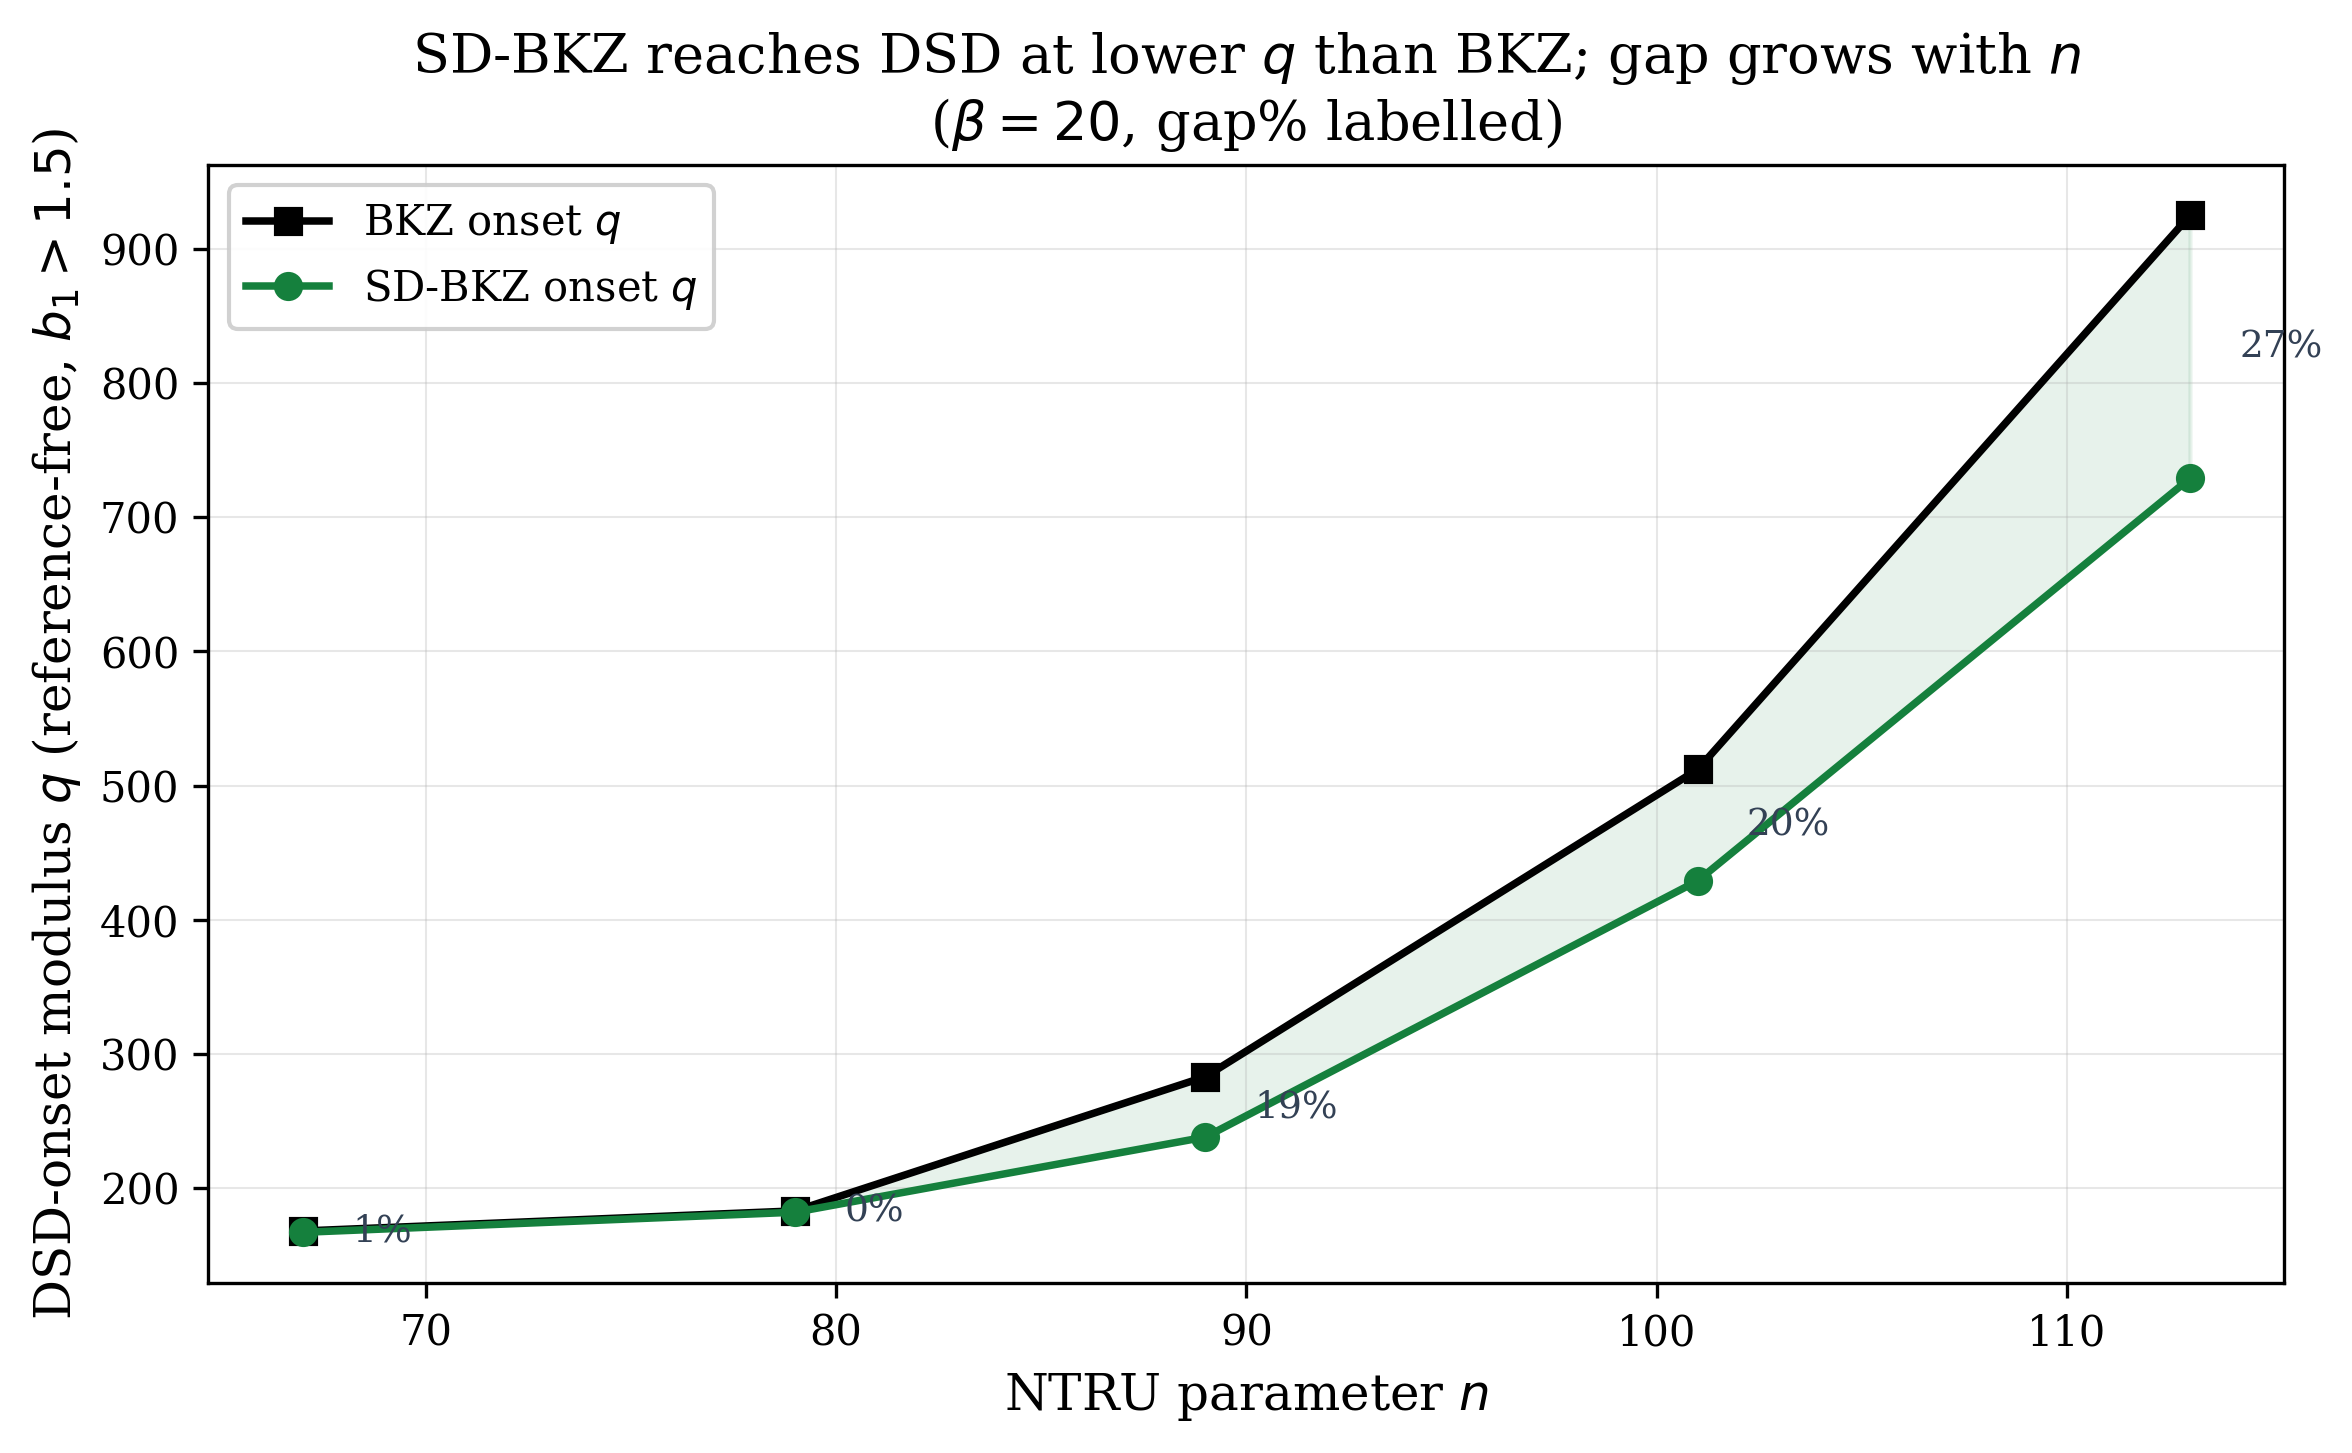
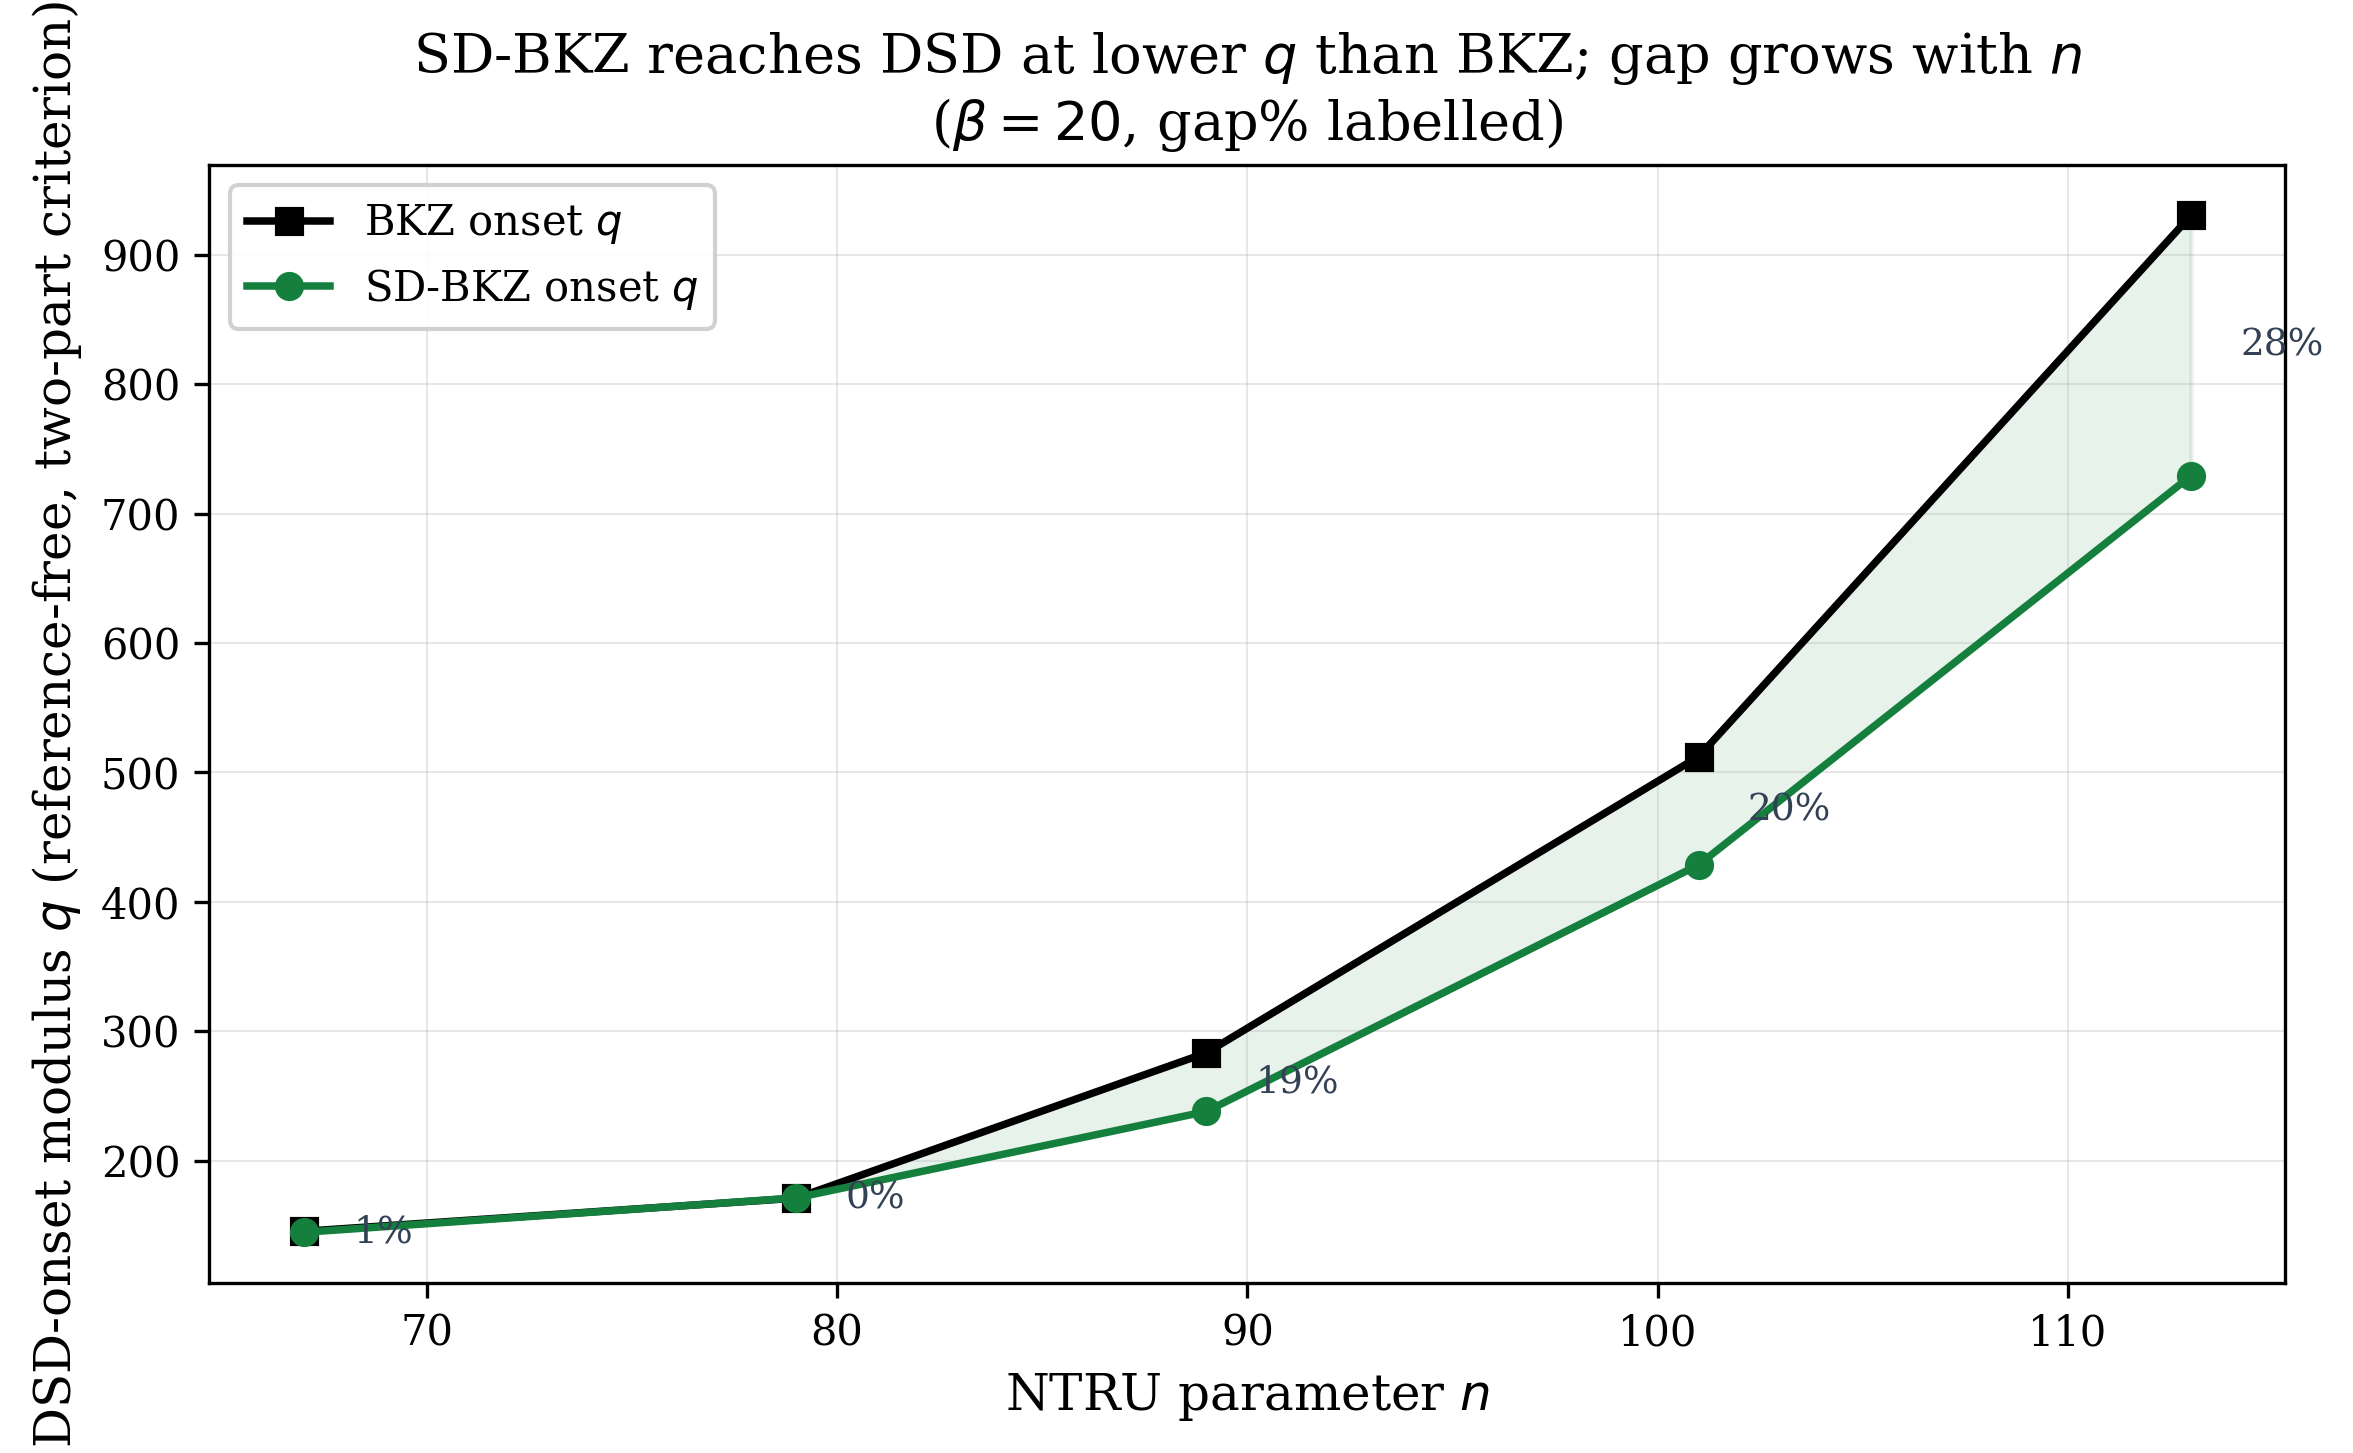
fix(dsd): n-dependent short threshold in extract_dsd_onset
Replace the frozen SHORT_THRESHOLD=2.888 (the n=89 instantiation) with
short_threshold(n) = log(sqrt(2n*2/3)) + 0.5, the documented formula.
Canonical trend shifts only the near-zero-gap rows (n=67 144.6/145.4,
n=79 171.2/171.0, n=113 BKZ 930.4 gap 28); n=89/101 unchanged. Trend is
threshold-robust (sensitivity recorded in paper2 section 4). Figure
module ONSET_TREND updated to 1-decimal onsets and regenerated.

diff --git a/scripts/extract_dsd_onset.py b/scripts/extract_dsd_onset.py
@@ -6,21 +6,26 @@ dense-sublattice-discovery (DSD) onset is the modulus q at which the variant
 starts cracking the dense secret sublattice. A seed's output basis counts as
 DSD under the PROPER two-part reference-free criterion
 
-    short = #{i : log||b*_i|| < 2.888} <= n + 1   AND   min_i log||b*_i|| > 1.5
+    short = #{i : log||b*_i|| < log(sqrt(2n*2/3)) + 0.5} <= n + 1
+    AND   min_i log||b*_i|| > 1.5
 
 i.e. the profile has collapsed to the dense sublattice (at most n+1 vectors
-survive below the q-floor) AND the shortest GS vector clears the secret-norm
-floor. NOT the gs_lognorms[0] < 3.5 "fired" proxy (which double-bit us this
+survive below the secret-norm threshold) AND the shortest GS vector clears
+the floor. The short-count threshold is n-DEPENDENT (2.746 at n=67, 2.888 at
+n=89, 3.008 at n=113): the ternary-secret log-norm plus a 0.5-nat margin. NOT the gs_lognorms[0] < 3.5 "fired" proxy (which double-bit us this
 session), and NOT the b1>1.5 half alone -- that over-fires at small n, where a
 reduced-but-uncracked basis already has min(gs)>1.5 (e.g. n=67 q=97:
 min(gs)~1.7-2.0 but short=2n, no collapse). The onset q is the modulus at which
 the DSD rate crosses 0.5, linearly interpolated between bracketing cells.
 
-This reproduces the committed paper-2 trend (Table tab:dsdgap) EXACTLY at the
-well-bracketed cells -- n=89 (SD 237 / BKZ 281) and n=101 (426 / 514) -- and
-within ~15-20q at n=67/79. n=113 is grid-limited: the on-disk beta=20 q-sweep
-stops at q=523, below the curated 732/932 onset, so it returns None (the curated
-n=113 row is not backed by local seeds).
+This reproduces the committed paper-2 trend (Table tab:dsdgap) EXACTLY at all
+five rows -- n=67 144.6/145.4, n=79 171.2/171.0, n=89 238.0/283.3,
+n=101 428.6/512.2, n=113 729.2/930.4 -- seed-backed end to end since the
+2026-06-07 WSL2 ball-out completed the beta=20 precision ladder (grid now
+reaches q=1279 at n=113). SENSITIVITY: freezing the threshold at its n=89
+value 2.888 across the n-grid (the pre-2026-06-11 behaviour) shifts only the
+near-zero-gap rows (n=67 -> 166.6/167.5, n=79 -> 181.7/182.5, n=113 BKZ ->
+925.0) and leaves the gap trend unchanged (1,0,19,20,28 -> ...,27).
 
 Pure analysis -- reads results/seeds/, never runs a reduction. Reused for both
 engines (fplll tree results/seeds/ntru/, g6k tree results/seeds/ntru_g6k/) and
@@ -36,6 +41,7 @@ from __future__ import annotations
 import argparse
 import glob
 import json
+import math
 import os
 import sys
 
@@ -46,7 +52,14 @@ PIPELINE = get_logger("extract_dsd_onset")
 BASE = os.path.dirname(os.path.dirname(os.path.abspath(__file__)))
 
 B1_FLOOR = 1.5                      # secret-norm floor (log-norm)
-SHORT_THRESHOLD = 2.888             # q-floor: GS positions below this are "short"
+
+
+def short_threshold(n: int) -> float:
+    """n-dependent short-count threshold: ternary-secret log-norm + 0.5-nat
+    margin (log(sqrt(2n*2/3)) + 0.5; = 2.888 at n=89)."""
+    return 0.5 * math.log(2 * n * 2 / 3) + 0.5
+
+
 DEFAULT_RATE = 0.5                  # onset = DSD-rate crossing of this fraction
 ENGINE_TREE = {"fplll": "ntru", "g6k": "ntru_g6k"}
 # The committed paper-2 5-point trend (Table tab:dsdgap), beta=20, fplll.
@@ -62,7 +75,7 @@ def _is_dsd(seed: dict, variant: str, n: int) -> bool:
     gs = seed.get(f"gs_lognorms_{variant}") or []
     if not gs:
         return False
-    short = sum(1 for x in gs if x < SHORT_THRESHOLD)
+    short = sum(1 for x in gs if x < short_threshold(n))
     return short <= n + 1 and min(gs) > B1_FLOOR
 
 

diff --git a/analysis/plots/ntru_dsd_onset_trend.py b/analysis/plots/ntru_dsd_onset_trend.py
@@ -1,19 +1,21 @@
 """Paper 2, Figure 2: NTRU DSD-onset gap grows with dimension.
 
-SD-BKZ vs BKZ reference-free DSD-onset modulus (smallest q at which the
-variant flags dense-sublattice discovery, b1>1.5) as a function of n, with
+SD-BKZ vs BKZ reference-free DSD-onset modulus (proper two-part criterion:
+short count <= n+1 with the n-dependent threshold log(sqrt(2n*2/3))+0.5 AND
+b1 > 1.5; 50%-rate crossing, linearly interpolated) as a function of n, with
 the SD-vs-BKZ gap% annotated. SD-BKZ reaches DSD at progressively lower q
-than BKZ as n grows (gap 0 -> 27%).
+than BKZ as n grows (gap ~0 -> 28%).
 
 DATA PROVENANCE: the per-(n, variant) onset moduli below are the committed
-5-point trend (paper2 Table tab:dsdgap), now SEED-BACKED end to end under the
-proper two-part DSD criterion (scripts/extract_dsd_onset.py, 50%-rate crossing).
-The 2026-06-07 ball-out completed the beta=20 ladder, so all five rows now
-reproduce from on-disk seeds: n=67 167/168, n=79 182/183, n=89 238/283,
-n=101 429/512, n=113 729/925 (the endpoint lands in the predicted 719-773 band;
-the earlier "n=113 unreproducible" was an extractor glob bug, p250-only). The
-criterion-suspect endpoint caveat is resolved. See
-results/validation/dsd_criterion_sensitivity.json and
+5-point trend (paper2 Table tab:dsdgap), SEED-BACKED end to end under the
+proper two-part DSD criterion (scripts/extract_dsd_onset.py, 50%-rate
+crossing, n-dependent threshold since 2026-06-11). The 2026-06-07 ball-out
+completed the beta=20 ladder, so all five rows reproduce from on-disk seeds:
+n=67 144.6/145.4, n=79 171.2/171.0, n=89 238.0/283.3, n=101 428.6/512.2,
+n=113 729.2/930.4 (the endpoint lands in the predicted 719-773 band; the
+earlier "n=113 unreproducible" was an extractor glob bug, p250-only). gap%
+is computed from the unrounded onsets.
+See results/validation/dsd_criterion_sensitivity.json and
 results/seed_manifest.json.
 """
 import os
@@ -24,13 +26,13 @@ from .._style import COLORS
 
 # (n, SD onset q, BKZ onset q, gap%) -- mirrors paper2 Table tab:dsdgap
 # exactly. Seed-backed (two-part criterion, extract_dsd_onset --trend), so
-# figure and table never disagree.
+# figure and table never disagree. gap% computed from unrounded onsets.
 ONSET_TREND = [
-    (67, 167, 168, 1),
-    (79, 182, 183, 0),
-    (89, 238, 283, 19),
-    (101, 429, 512, 20),
-    (113, 729, 925, 27),
+    (67, 144.6, 145.4, 1),
+    (79, 171.2, 171.0, 0),
+    (89, 238.0, 283.3, 19),
+    (101, 428.6, 512.2, 20),
+    (113, 729.2, 930.4, 28),
 ]
 
 
@@ -54,7 +56,7 @@ def fig_ntru_dsd_onset_trend(output_dir=".", fname="dsd_onset_trend.png"):
                     color="#334155", va="center")
 
     ax.set_xlabel("NTRU parameter $n$")
-    ax.set_ylabel(r"DSD-onset modulus $q$ (reference-free, $b_1>1.5$)")
+    ax.set_ylabel(r"DSD-onset modulus $q$ (reference-free, two-part criterion)")
     ax.set_title(r"SD-BKZ reaches DSD at lower $q$ than BKZ; gap grows with $n$"
                  "\n" r"($\beta=20$, gap% labelled)")
     ax.legend(loc="upper left", framealpha=0.9)
